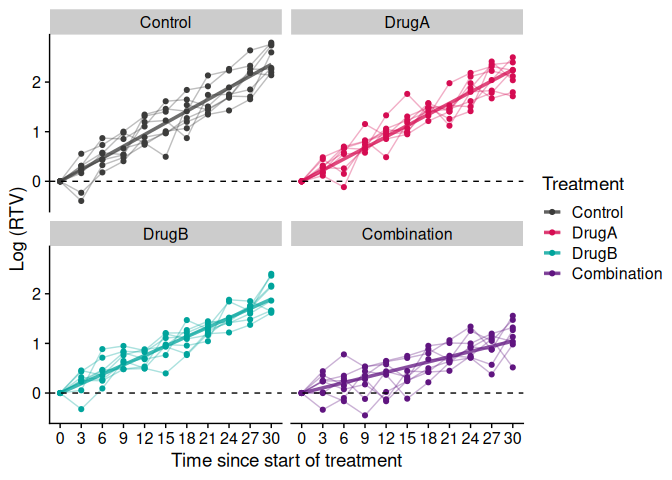
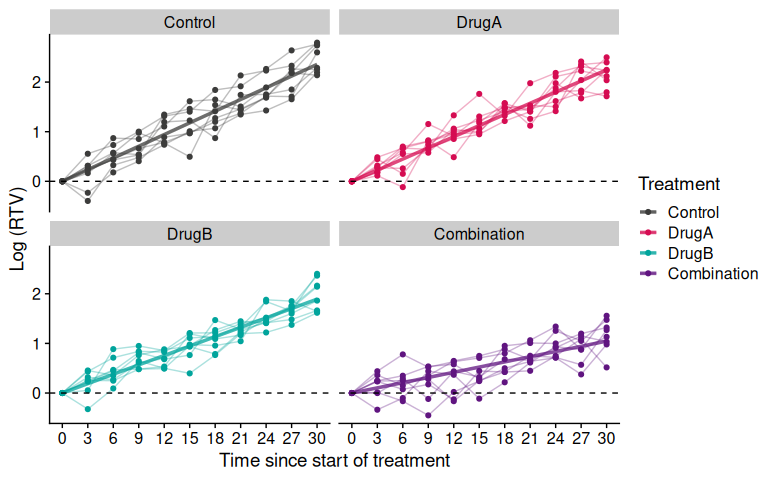
Small changes in figures in README

diff --git a/README.md b/README.md
@@ -39,6 +39,21 @@ data("grwth_data")
 
 The first step is fitting the model from our data:
 
+``` r
+# Most simple model
+lmm <- lmmModel(
+  data = grwth_data,
+  sample_id = "subject",
+  time = "Time",
+  treatment = "Treatment",
+  tumor_vol = "TumorVolume",
+  trt_control = "Control",
+  drug_a = "DrugA",
+  drug_b = "DrugB",
+  combination = "Combination"
+)
+```
+
 <img src="man/figures/README-fit_model-1.png" width="100%" /> We can
 obtain the model estimates using:
 
@@ -305,6 +320,7 @@ lmmSynergy(lmm, method = "HSA")
 **Response Additivity**
 
 ``` r
+set.seed(123)
 lmmSynergy(lmm, method = "RA", ra_nsim = 1000)
 ```
 
@@ -315,26 +331,26 @@ lmmSynergy(lmm, method = "RA", ra_nsim = 1000)
     #> 
     #> $Synergy
     #>    Model Metric  Estimate        lwr       upr  pval Time
-    #> 1     RA     CI 0.9071064  0.7682986 1.0790444 0.236    3
-    #> 2     RA     CI 0.9005197  0.7429156 1.1148414 0.368    6
-    #> 3     RA     CI 0.7731020  0.6482274 0.9560555 0.018    9
-    #> 4     RA     CI 0.7739363  0.6214336 0.9696409 0.032   12
-    #> 5     RA     CI 0.7125668  0.5676160 0.9233063 0.008   15
-    #> 6     RA     CI 0.6836625  0.5545611 0.8717436 0.000   18
-    #> 7     RA     CI 0.6966036  0.5581227 0.9011703 0.010   21
-    #> 8     RA     CI 0.6673645  0.5286797 0.8757919 0.006   24
-    #> 9     RA     CI 0.6430636  0.4985359 0.8710620 0.000   27
-    #> 10    RA     CI 0.6515163  0.4936327 0.9394682 0.018   30
-    #> 11    RA     SS 1.1342050 -0.8393791 3.1531703 0.236    3
-    #> 12    RA     SS 0.9729329 -0.9222867 2.8583655 0.368    6
-    #> 13    RA     SS 2.3906917  0.3768701 4.2570623 0.018    9
-    #> 14    RA     SS 2.1380016  0.2468744 4.2984822 0.032   12
-    #> 15    RA     SS 2.5370941  0.5344380 4.5568418 0.008   15
-    #> 16    RA     SS 2.8883909  0.9018029 4.7758480 0.000   18
-    #> 17    RA     SS 2.5521501  0.6742320 4.4420115 0.010   21
-    #> 18    RA     SS 2.6973889  0.8036398 4.6569125 0.006   24
-    #> 19    RA     SS 2.6837645  0.7435338 4.7652979 0.000   27
-    #> 20    RA     SS 2.3305816  0.2891200 4.3150349 0.018   30
+    #> 1     RA     CI 0.9089179  0.7813434 1.0846505 0.218    3
+    #> 2     RA     CI 0.9007998  0.7494092 1.1251799 0.306    6
+    #> 3     RA     CI 0.7757545  0.6392168 0.9565893 0.020    9
+    #> 4     RA     CI 0.7654962  0.6281900 0.9833419 0.036   12
+    #> 5     RA     CI 0.7126844  0.5680455 0.9012317 0.006   15
+    #> 6     RA     CI 0.6823963  0.5555088 0.8819816 0.004   18
+    #> 7     RA     CI 0.6966459  0.5587736 0.9216748 0.010   21
+    #> 8     RA     CI 0.6761002  0.5264396 0.8850202 0.004   24
+    #> 9     RA     CI 0.6378541  0.4932419 0.8886775 0.008   27
+    #> 10    RA     CI 0.6571783  0.4884503 0.9583366 0.040   30
+    #> 11    RA     SS 1.1273375 -0.8996513 3.0688249 0.218    3
+    #> 12    RA     SS 1.0017861 -1.0248908 2.8463802 0.306    6
+    #> 13    RA     SS 2.2770890  0.3762641 4.3157772 0.020    9
+    #> 14    RA     SS 2.2314878  0.1198712 4.1467019 0.036   12
+    #> 15    RA     SS 2.5085219  0.7331476 4.5810408 0.006   15
+    #> 16    RA     SS 2.8407722  0.8458634 4.7868026 0.004   18
+    #> 17    RA     SS 2.5801212  0.4850124 4.4559420 0.010   21
+    #> 18    RA     SS 2.5364751  0.7211025 4.5463547 0.004   24
+    #> 19    RA     SS 2.6375599  0.5889487 4.6388547 0.008   27
+    #> 20    RA     SS 2.1181025  0.1839581 4.0786818 0.040   30
     #> 
     #> attr(,"SynergyLMM")
     #> [1] "lmmSynergy"
